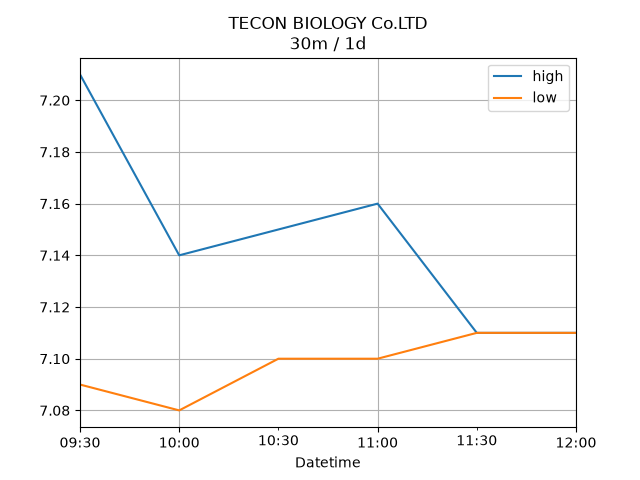
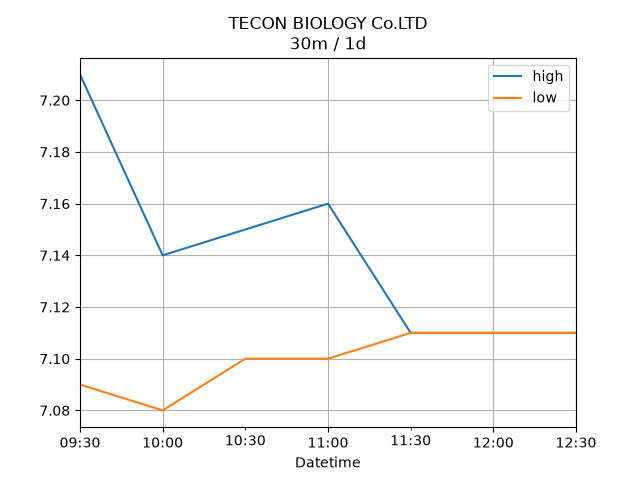
github action

diff --git a/record/mm/summary.md b/record/mm/summary.md
@@ -2,7 +2,7 @@
 ### $11128.60
 |type|graph|data|
 |:---:|:---:|:---:|
-|30m / 1d|![net_profit](image/overall_30m-1d.png)|<table border="1" class="dataframe"> <thead> <tr style="text-align: center;"> <th>Datetime</th> <th>profit</th> </tr> </thead> <tbody> <tr> <td>01:30</td> <td>11264.6</td> </tr> <tr> <td>02:00</td> <td>11106.6</td> </tr> <tr> <td>02:30</td> <td>11226.6</td> </tr> <tr> <td>03:00</td> <td>11158.6</td> </tr> <tr> <td>03:30</td> <td>11128.6</td> </tr> <tr> <td>04:00</td> <td>11128.6</td> </tr> </tbody></table>|
+|30m / 1d|![net_profit](image/overall_30m-1d.png)|<table border="1" class="dataframe"> <thead> <tr style="text-align: center;"> <th>Datetime</th> <th>profit</th> </tr> </thead> <tbody> <tr> <td>01:30</td> <td>11264.6</td> </tr> <tr> <td>02:00</td> <td>11106.6</td> </tr> <tr> <td>02:30</td> <td>11226.6</td> </tr> <tr> <td>03:00</td> <td>11158.6</td> </tr> <tr> <td>03:30</td> <td>11128.6</td> </tr> <tr> <td>04:00</td> <td>11128.6</td> </tr> <tr> <td>04:30</td> <td>11128.6</td> </tr> </tbody></table>|
 |1d / 5d|![net_profit](image/overall_1d-5d.png)|<table border="1" class="dataframe"> <thead> <tr style="text-align: center;"> <th>Date</th> <th>profit</th> </tr> </thead> <tbody> <tr> <td>2026-08-16</td> <td>9664.6</td> </tr> <tr> <td>2026-08-17</td> <td>10278.6</td> </tr> <tr> <td>2026-08-18</td> <td>10572.6</td> </tr> <tr> <td>2026-08-19</td> <td>10996.6</td> </tr> <tr> <td>2026-08-20</td> <td>11128.6</td> </tr> </tbody></table>|
 |1wk / 1mo|![net_profit](image/overall_1wk-1mo.png)|<table border="1" class="dataframe"> <thead> <tr style="text-align: center;"> <th>Date</th> <th>profit</th> </tr> </thead> <tbody> <tr> <td>2026-07-19</td> <td>8444.6</td> </tr> <tr> <td>2026-07-26</td> <td>10934.6</td> </tr> <tr> <td>2026-08-02</td> <td>8344.6</td> </tr> <tr> <td>2026-08-09</td> <td>10088.6</td> </tr> <tr> <td>2026-08-16</td> <td>11128.6</td> </tr> </tbody></table>|
 ---
@@ -10,7 +10,7 @@
 #### TECON BIOLOGY Co.LTD
 |price|profit|data|
 |:---:|:---:|:---:|
-|![price](image/002100.SZ_30m-1d_price.png)|![profit](image/002100.SZ_30m-1d_profit.png)|<table border="1" class="dataframe"> <thead> <tr style="text-align: center;"> <th>Datetime</th> <th>profit</th> </tr> </thead> <tbody> <tr> <td>09:30</td> <td>-3165.4</td> </tr> <tr> <td>10:00</td> <td>-3203.4</td> </tr> <tr> <td>10:30</td> <td>-3203.4</td> </tr> <tr> <td>11:00</td> <td>-3241.4</td> </tr> <tr> <td>11:30</td> <td>-3241.4</td> </tr> <tr> <td>12:00</td> <td>-3241.4</td> </tr> </tbody></table>|
+|![price](image/002100.SZ_30m-1d_price.png)|![profit](image/002100.SZ_30m-1d_profit.png)|<table border="1" class="dataframe"> <thead> <tr style="text-align: center;"> <th>Datetime</th> <th>profit</th> </tr> </thead> <tbody> <tr> <td>09:30</td> <td>-3165.4</td> </tr> <tr> <td>10:00</td> <td>-3203.4</td> </tr> <tr> <td>10:30</td> <td>-3203.4</td> </tr> <tr> <td>11:00</td> <td>-3241.4</td> </tr> <tr> <td>11:30</td> <td>-3241.4</td> </tr> <tr> <td>12:00</td> <td>-3241.4</td> </tr> <tr> <td>12:30</td> <td>-3241.4</td> </tr> </tbody></table>|
 |![price](image/002100.SZ_1d-5d_price.png)|![profit](image/002100.SZ_1d-5d_profit.png)|<table border="1" class="dataframe"> <thead> <tr style="text-align: center;"> <th>Date</th> <th>profit</th> </tr> </thead> <tbody> <tr> <td>2026-08-17</td> <td>-3355.4</td> </tr> <tr> <td>2026-08-18</td> <td>-2861.4</td> </tr> <tr> <td>2026-08-19</td> <td>-3317.4</td> </tr> <tr> <td>2026-08-20</td> <td>-3013.4</td> </tr> <tr> <td>2026-08-21</td> <td>-3241.4</td> </tr> </tbody></table>|
 |![price](image/002100.SZ_1wk-1mo_price.png)|![profit](image/002100.SZ_1wk-1mo_profit.png)|<table border="1" class="dataframe"> <thead> <tr style="text-align: center;"> <th>Date</th> <th>profit</th> </tr> </thead> <tbody> <tr> <td>2026-07-20</td> <td>-3735.4</td> </tr> <tr> <td>2026-07-27</td> <td>-2595.4</td> </tr> <tr> <td>2026-08-03</td> <td>-3355.4</td> </tr> <tr> <td>2026-08-10</td> <td>-3621.4</td> </tr> <tr> <td>2026-08-17</td> <td>-3241.4</td> </tr> </tbody></table>|
 ---
